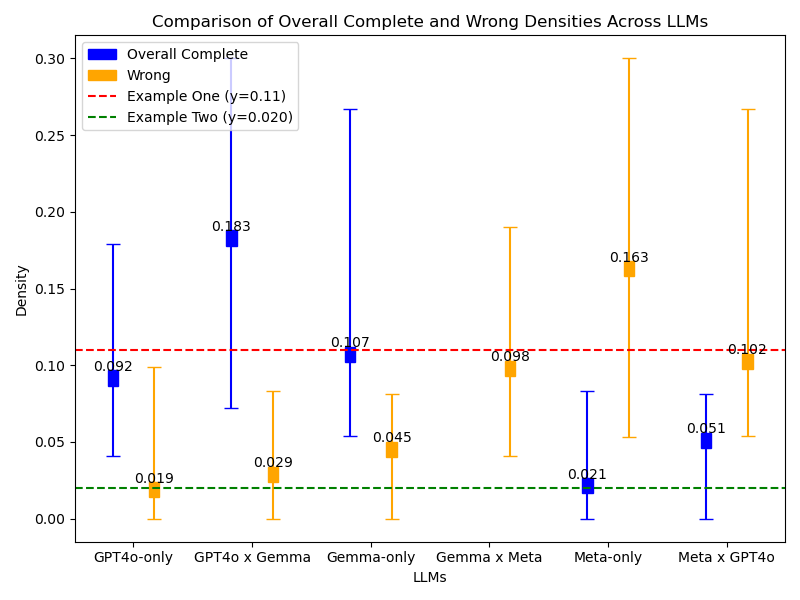
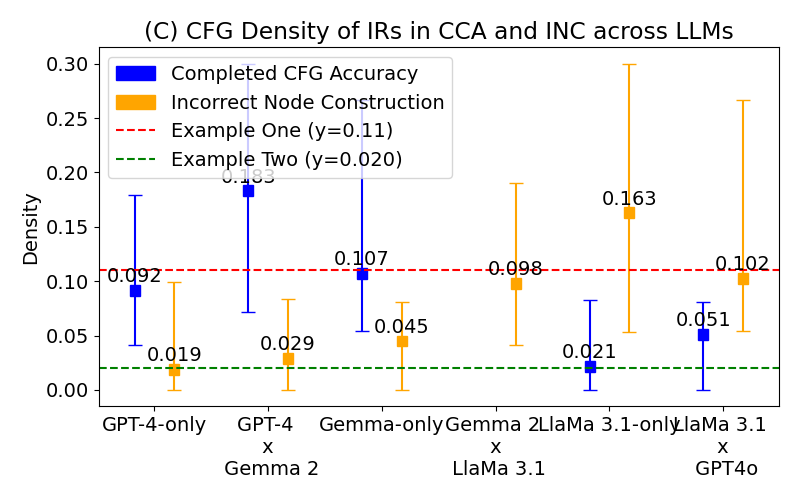
Code summarization results analysis

diff --git a/Data/CFG task/barChart_density2Completetion.py b/Data/CFG task/barChart_density2Completetion.py
@@ -3,10 +3,10 @@ import numpy as np
 import matplotlib.patches as patches
 
 # 设置全局字体
-plt.rcParams['font.size'] = 10  # 字体大小
+plt.rcParams['font.size'] = 14  # 字体大小
 
 # Reorder the labels and corresponding data
-labels = ['GPT4o-only', 'GPT4o x Gemma', 'Gemma-only', 'Gemma x Meta', 'Meta-only', 'Meta x GPT4o']
+labels = ['GPT-4-only', 'GPT-4 \n x \n Gemma 2', 'Gemma-only', 'Gemma 2 \n x \n LlaMa 3.1', 'LlaMa 3.1-only', 'LlaMa 3.1 \n x \n GPT4o']
 overall_avg = [0.0918, 0.183, 0.107, np.nan, 0.0215, 0.0510]
 overall_min = [0.041, 0.072, 0.054, np.nan, 0.0, 0.0]
 overall_max = [0.179, 0.3, 0.267, np.nan, 0.083, 0.081]
@@ -18,7 +18,7 @@ x = np.arange(len(labels))  # the label locations
 width = 0.35  # the width of the bars
 
 # Plotting
-fig, ax = plt.subplots(figsize=(8, 6))
+fig, ax = plt.subplots(figsize=(8, 5))
 
 # Function to draw small rectangles
 def draw_rectangles(ax, x, y, width, height, color, label=None):
@@ -29,11 +29,11 @@ def draw_rectangles(ax, x, y, width, height, color, label=None):
             label = None  # Only label the first rectangle to avoid duplicate labels in the legend
 
 # Draw small rectangles for Overall Complete
-draw_rectangles(ax, x - width/2, overall_avg, width/4, 0.01, 'blue', label='Overall Complete')
+draw_rectangles(ax, x - width/2, overall_avg, width/4, 0.01, 'blue', label='Completed CFG Accuracy')
 ax.errorbar(x - width/2, overall_avg, yerr=[np.subtract(overall_avg, overall_min), np.subtract(overall_max, overall_avg)], fmt='none', capsize=5, color='blue')
 
 # Draw small rectangles for Wrong
-draw_rectangles(ax, x + width/2, wrong_avg, width/4, 0.01, 'orange', label='Wrong')
+draw_rectangles(ax, x + width/2, wrong_avg, width/4, 0.01, 'orange', label='Incorrect Node Construction')
 ax.errorbar(x + width/2, wrong_avg, yerr=[np.subtract(wrong_avg, wrong_min), np.subtract(wrong_max, wrong_avg)], fmt='none', capsize=5, color='orange')
 
 # Add dotted lines for example one and example two
@@ -41,9 +41,9 @@ ax.axhline(y=0.11, color='r', linestyle='--', label='Example One (y=0.11)')
 ax.axhline(y=0.020, color='g', linestyle='--', label='Example Two (y=0.020)')
 
 # Labels and Titles
-ax.set_xlabel('LLMs')
+#ax.set_xlabel('LLMs')
 ax.set_ylabel('Density')
-ax.set_title('Comparison of Overall Complete and Wrong Densities Across LLMs')
+ax.set_title('(C) CFG Density of IRs in CCA and INC across LLMs')
 ax.set_xticks(x)
 ax.set_xticklabels(labels)
 ax.legend(loc='upper left')

diff --git a/Data/codeSummary task/veenAnalysis.py b/Data/codeSummary task/veenAnalysis.py
@@ -1,0 +1,19 @@
+# Import required libraries
+import pandas as pd
+
+# Load the CSV file
+file_path = 'your_file_path.csv'  # Replace with the path to your CSV file
+df = pd.read_csv(file_path)
+
+# List of Index values
+cpp_list = ['CPP_155', 'CPP_22', 'CPP_50', 'CPP_20', 'CPP_16', 'CPP_83', 'CPP_7', 'CPP_97', 'CPP_124', 'CPP_24', 
+            'CPP_32', 'CPP_10', 'CPP_139', 'CPP_65', 'CPP_75', 'CPP_1', 'CPP_26', 'CPP_36', 'CPP_77', 
+            'CPP_61', 'CPP_163', 'CPP_8', 'CPP_18', 'CPP_12', 'CPP_157', 'CPP_59', 'CPP_114', 'CPP_9', 
+            'CPP_64', 'CPP_46', 'CPP_4', 'CPP_63', 'CPP_21', 'CPP_56', 'CPP_82', 'CPP_99', 'CPP_2', 
+            'CPP_60', 'CPP_45', 'CPP_0', 'CPP_13', 'CPP_71', 'CPP_23', 'CPP_39']
+
+# Filter the DataFrame based on the Index values that match the provided list
+filtered_df = df[df['Index'].isin(cpp_list)]
+
+# Display the filtered DataFrame
+print(filtered_df)
